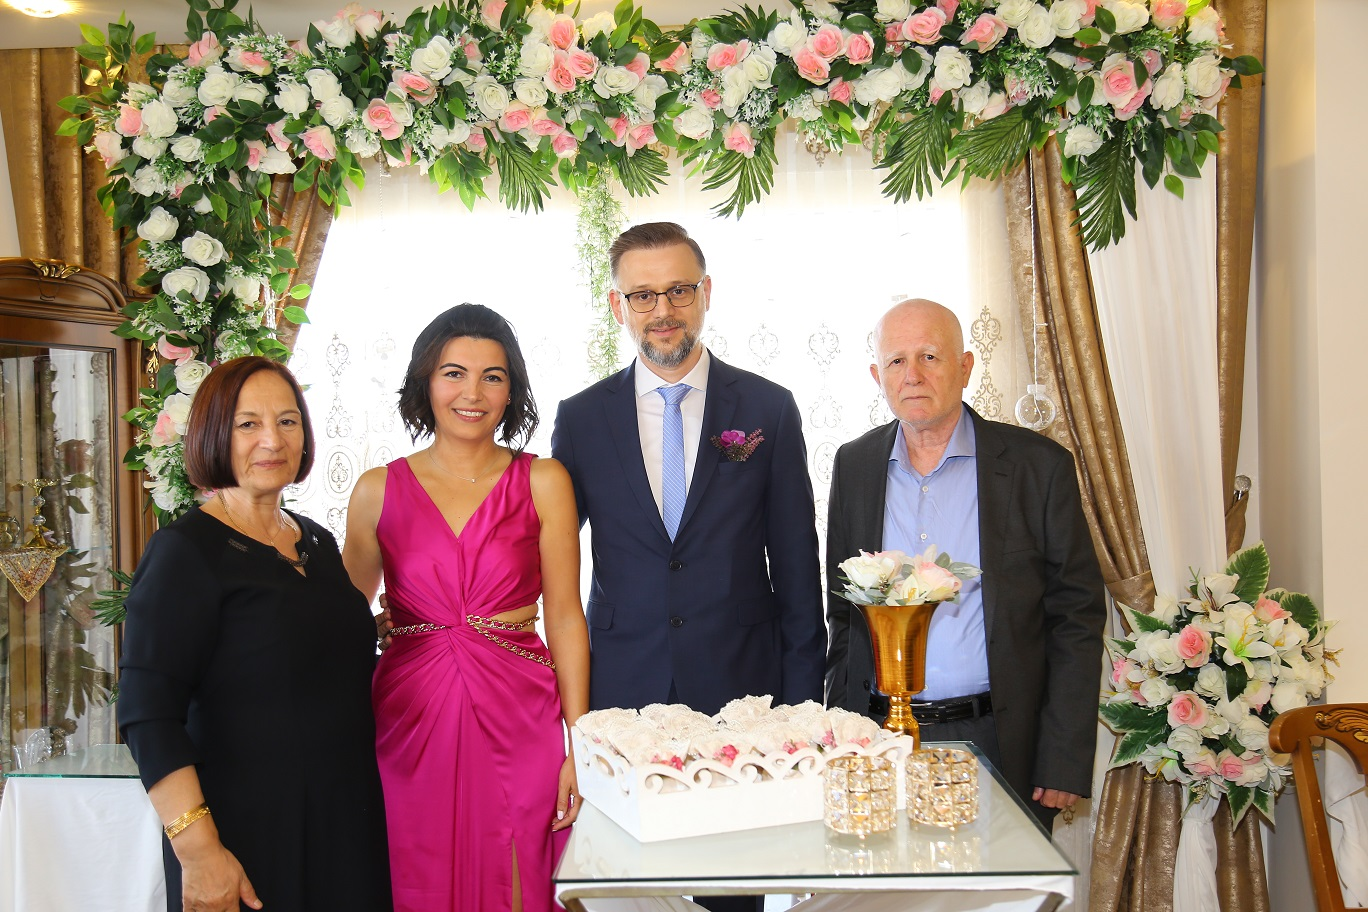
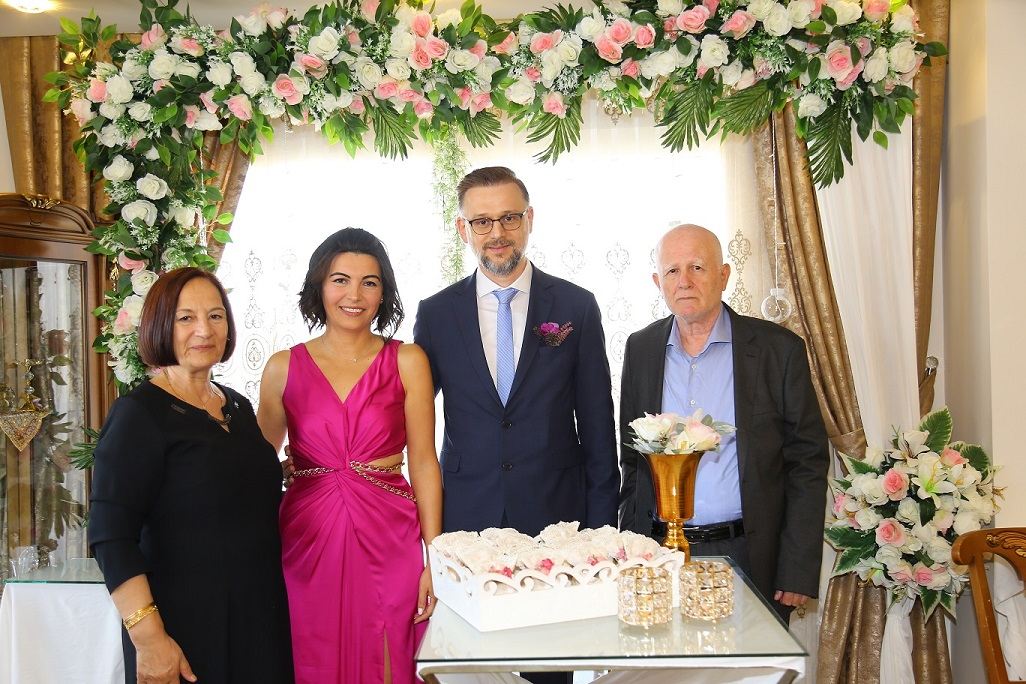
image optimizations

diff --git a/src/components/Memories.vue b/src/components/Memories.vue
@@ -1,3 +1,13 @@
+<script lang="ts" setup>
+import image1 from "@/assets/images/gallery/img-1.jpg";
+import image2 from "@/assets/images/gallery/img-2.jpg";
+import image3 from "@/assets/images/gallery/img-3.jpg";
+import image4 from "@/assets/images/gallery/img-4.jpg";
+import image5 from "@/assets/images/gallery/img-5.jpg";
+import image6 from "@/assets/images/gallery/img-6.jpg";
+var images=[image1,image2,image3,image4,image5,image6];
+
+</script>
 <template>
        <!-- start wpo-portfolio-section -->
        <section class="wpo-portfolio-section-s2 pb-0 section-padding" id="gallery">
@@ -11,74 +21,16 @@
                     <div class="row">
                         <div class="col-lg-12">
                             <div class="portfolio-grids gallery-container clearfix">
-                                <div class="grid">
+                                <div class="grid" v-for="i in images" :key="i">
                                     <div class="img-holder">
-                                        <a href="@/assets/images/gallery/img-1.jpg" class="fancybox"
-                                            data-fancybox-group="gall-1">
-                                            <img src="@/assets/images/gallery/img-1.jpg" class="img img-responsive">
+                                        <a :href="`${i}`" class="fancybox" data-fancybox-group="gall-1">
+                                            <img :src="`${i}`" class="img img-responsive">
                                             <div class="hover-content">
                                                 <i class="ti-plus"></i>
                                             </div>
                                         </a>
                                     </div>
                                 </div>
-
-                                <div class="grid">
-                                    <div class="img-holder">
-                                        <a href="@/assets/images/gallery/img-2.jpg" class="fancybox"
-                                            data-fancybox-group="gall-1">
-                                            <img src="@/assets/images/gallery/img-2.jpg" class="img img-responsive">
-                                            <div class="hover-content">
-                                                <i class="ti-plus"></i>
-                                            </div>
-                                        </a>
-                                    </div>
-                                </div>
-                                <div class="grid">
-                                    <div class="img-holder">
-                                        <a href="@/assets/images/gallery/img-3.jpg" class="fancybox"
-                                            data-fancybox-group="gall-1">
-                                            <img src="@/assets/images/gallery/img-3.jpg" class="img img-responsive">
-                                            <div class="hover-content">
-                                                <i class="ti-plus"></i>
-                                            </div>
-                                        </a>
-                                    </div>
-                                </div>
-                                <div class="grid">
-                                    <div class="img-holder">
-                                        <a href="@/assets/images/gallery/img-4.jpg" class="fancybox"
-                                            data-fancybox-group="gall-1">
-                                            <img src="@/assets/images/gallery/img-4.jpg" class="img img-responsive">
-                                            <div class="hover-content">
-                                                <i class="ti-plus"></i>
-                                            </div>
-                                        </a>
-                                    </div>
-                                </div>
-                                <div class="grid">
-                                    <div class="img-holder">
-                                        <a href="@/assets/images/gallery/img-5.jpg" class="fancybox"
-                                            data-fancybox-group="gall-1">
-                                            <img src="@/assets/images/gallery/img-5.jpg" class="img img-responsive">
-                                            <div class="hover-content">
-                                                <i class="ti-plus"></i>
-                                            </div>
-                                        </a>
-                                    </div>
-                                </div>
-                                <div class="grid">
-                                    <div class="img-holder">
-                                        <a href="@/assets/images/gallery/img-6.jpg" class="fancybox"
-                                            data-fancybox-group="gall-1">
-                                            <img src="@/assets/images/gallery/img-6.jpg" class="img img-responsive">
-                                            <div class="hover-content">
-                                                <i class="ti-plus"></i>
-                                            </div>
-                                        </a>
-                                    </div>
-                                </div>
-                                
                             </div>
                         </div>
                     </div>

diff --git a/src/components/Footer.vue b/src/components/Footer.vue
@@ -26,7 +26,7 @@
                 </div>
                 <div class="col-12">
                     <div class="copyright">
-                        <p>© Copyright 2022 | <a href="#">Bilgen & Yemre</a> | {{$t('text.AllRightReserved')}}</p>
+                        <p>© Copyright 2023 | <a href="#">Bilgen & Yemre</a> | {{$t('text.AllRightReserved')}}</p>
                     </div>
                 </div>
             </div>
